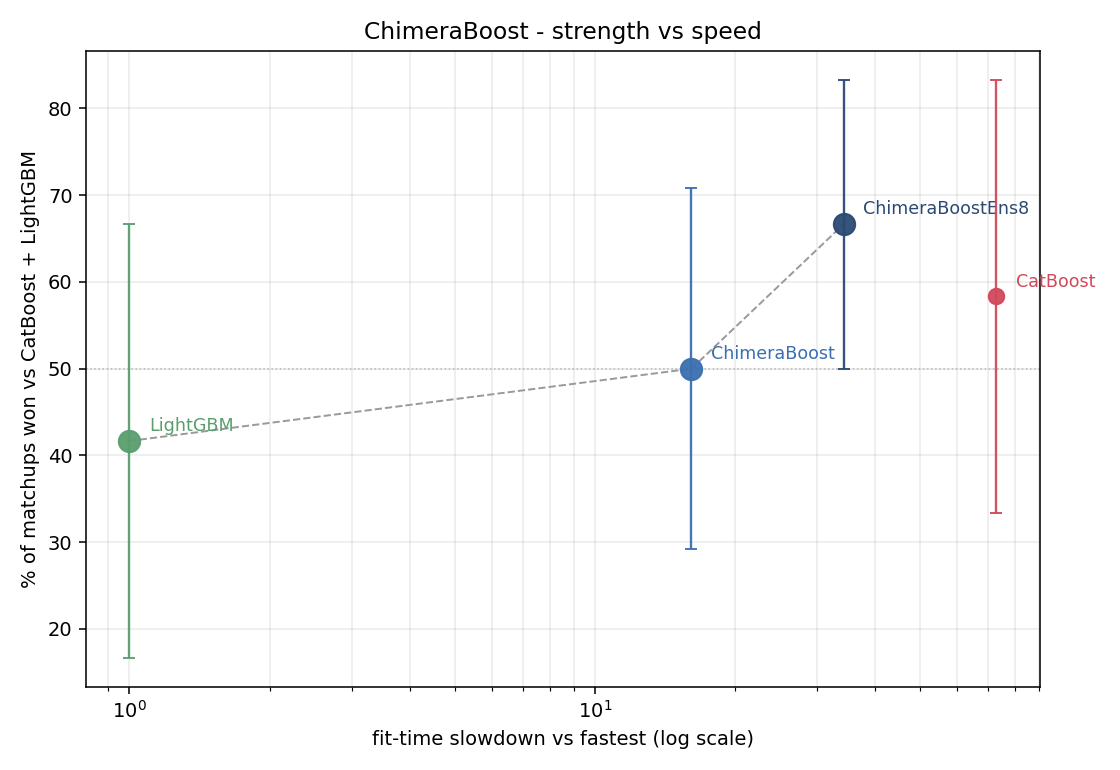
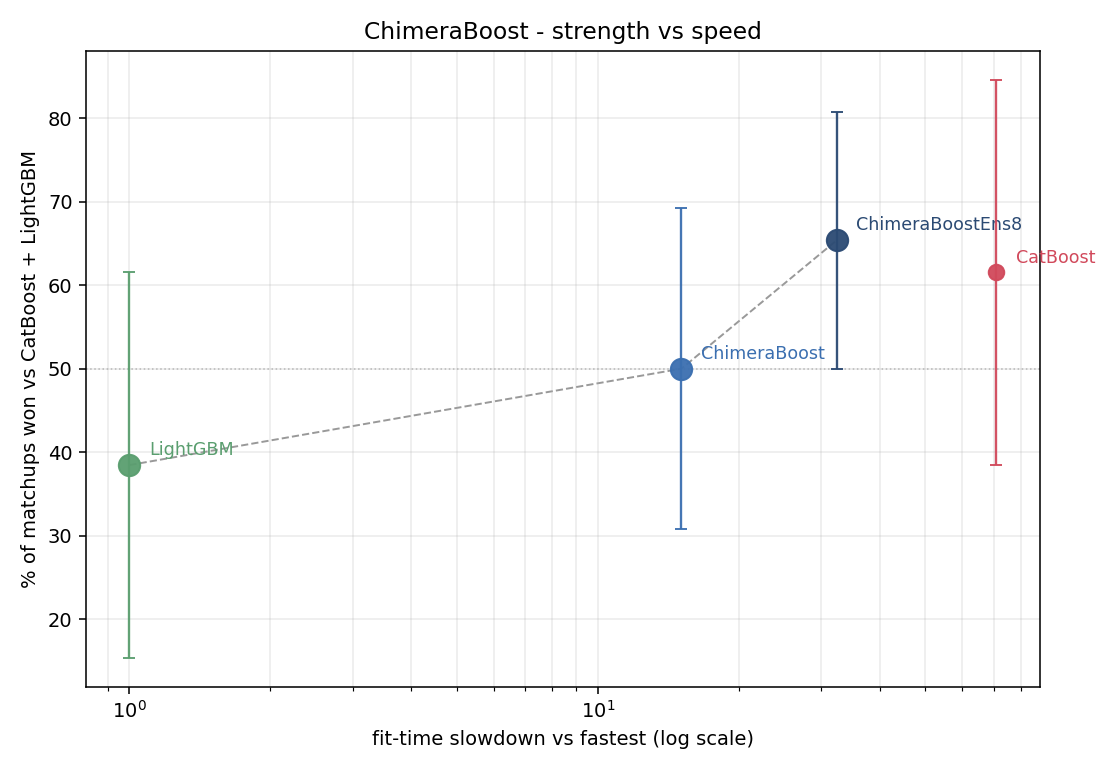
Public suite: add nba-shot-logs, re-run, refresh the chart
Reinstated the dataset that was cut for target leakage in the first pass. The
leak is two named columns, not a property of the data, which is what drop_cols
is for. Measured per-column purity -- how well one column alone pins the label
-- is 1.0000 for both FGM and PTS and at or barely above the 0.5479 majority
baseline for everything else, bar SHOT_DIST at 0.611, which is just basketball.
player_id and CLOSEST_DEFENDER_PLAYER_ID go too: numeric twins of the name
columns, and keeping both hands the model a leak-free numeric surrogate for the
very high-card categorical this dataset is here to exercise.

It earns its place: 128,069 rows, a balanced target (0.452), and three real
high-card cats (MATCHUP 1808, CLOSEST_DEFENDER 473, player_name 281) in a suite
that was thin on high-card BINARY.

The result confirms the surgery worked. nba-shot-logs scores Brier 0.4543 for us
against CatBoost 0.4537 and LightGBM 0.4670 -- narrow loss, clear win, and
nobody near a perfect score. A balanced binary sitting at 0.45 Brier is a hard
problem, not a leaking one.

Full re-run rather than a merge, since win rates are computed across datasets
within a single run. 103 minutes, 14 datasets, 3 seeds.

  ChimeraBoostEns8  65.4% [50-81]  32.4x  frontier
  CatBoost          61.5% [38-85]  70.9x  dominated
  ChimeraBoost      50.0% [31-69]  15.1x  frontier
  LightGBM          38.5% [15-62]   1.0x  frontier

Story is unchanged from the 13-dataset read: CatBoost dominated, the ensemble
[…]

diff --git a/benchmarks/run_benchmarks.py b/benchmarks/run_benchmarks.py
@@ -694,6 +694,16 @@ PUBLIC_DATASETS = {
         data_id=45566, task="binary", target="target"),        # wide numeric, 0.11 imbalance
     "hcdr": dict(
         data_id=45071, task="binary", target="class"),         # 47 categorical columns
+    "nba-shot-logs": dict(
+        data_id=42806, task="binary", target="SHOT_RESULT",
+        # FGM and PTS each determine SHOT_RESULT exactly (per-column purity
+        # 1.0000). The rest sit at the 0.548 majority baseline, bar SHOT_DIST at
+        # 0.611, which is just basketball. player_id and CLOSEST_DEFENDER_PLAYER_ID
+        # are numeric twins of the name columns -- keeping both would hand the
+        # model a leak-free numeric surrogate for the high-card cat this dataset
+        # is here to exercise. GAME_ID is a row-group id.
+        drop_cols=("FGM", "PTS", "GAME_ID", "player_id",
+                   "CLOSEST_DEFENDER_PLAYER_ID")),             # MATCHUP card 1808
     # multiclass
     "internet_firewall": dict(
         data_id=46978, task="multiclass", target="Action"),    # NAT ports card 29152

diff --git a/benchmarks/PUBLIC_PLAN.md b/benchmarks/PUBLIC_PLAN.md
@@ -106,7 +106,7 @@ Four candidates were cut on evidence that exists only in the data:
 
 | cut | id | why |
 |---|---|---|
-| nba-shot-logs | 42806 | **target leakage.** `FGM` determines `SHOT_RESULT` exactly (the crosstab is diagonal: 57,905 made ⇔ FGM=1, 70,164 missed ⇔ FGM=0), and `PTS` does the same. Any model scores ~1.0. |
+| ~~nba-shot-logs~~ | 42806 | **reinstated** — see below. `FGM` and `PTS` each determine `SHOT_RESULT` exactly, but they are two named columns, which is what `drop_cols` is for. |
 | autos | 45080 | **not real data.** 1,000,000 rows carrying the 205-row imports-85 schema — a generator expansion that the `BNG(` prefix filter does not catch. |
 | la_crimes | 42160 | no identifiable target; `Crime_Code` is mirrored by `Crime_Code_Description` and by `Crime_Code_1..4`, so whichever is the target, three columns leak it. Otherwise attractive (1.47M rows, 9 high-card cats, real timestamps) — kept as an alternate if a target can be established. |
 | Economic_Census_Delhi | 46096 | ambiguous target; ships both `District` and `DISTRICT`. |
@@ -138,6 +138,7 @@ running the builder.
 | pub:kickstarter_projects | 42076 | binary | 331,675 | 200,000 × 12 | 5 | 3,102 (`deadline`) | `state` | `deadline` | temporal, mixed-timezone dates |
 | pub:SantanderCustomerSatisfaction | 45566 | binary | 200,000 | 200,000 × 200 | 0 | — | `target` | — | wide all-numeric, 0.10 minority |
 | pub:hcdr | 45071 | binary | 244,280 | 200,000 × 69 | 47 | 58 (`ORGANIZATION_TYPE`) | `class` | — | the most categorical-heavy set found; 0.078 minority |
+| pub:nba-shot-logs | 42806 | binary | 128,069 | 128,069 × 15 | 6 | 1,808 (`MATCHUP`) | `SHOT_RESULT` | — | high-card cats on a balanced, genuinely hard binary target |
 | pub:internet_firewall | 46978 | multiclass | 65,532 | 65,532 × 11 | 4 | 29,152 (`NAT_Source_Port`) | `Action` | — | 4-class, high-card, rarest class 0.0008 |
 | pub:connect-4 | 40668 | multiclass | 67,557 | 67,557 × 42 | 42 | 3 | `class` | — | all-categorical multiclass |
 | pub:Otto-Group-Product-Classification-Challenge | 45548 | multiclass | 61,878 | 61,878 × 94 | 0 | — | `target` | — | 9 classes over count features |
@@ -147,9 +148,22 @@ running the builder.
 | pub:fps-in-video-games | 42737 | regression | 425,833 | 200,000 × 44 | 14 | 446 (`GpuName`) | `FPS` | — | entity cats + missingness |
 | pub:federal_election | 42080 | regression | 3,348,209 | 200,000 × 17 | 15 | `employer`/`occupation`/`city`/`zip_code` | `transaction_amt` | — | the entity-cat regime at full scale |
 
-Composition: 13 datasets; 5 binary / 4 multiclass / 4 regression; 8 with a
+Composition: 14 datasets; 6 binary / 4 multiclass / 4 regression; 9 with a
 categorical of ≥50 levels; 3 regression-with-cats; 3 carrying a time column.
-Registration yields 20 keys once the `@sus25`/`@sus50`/`@time` twins are added.
+Registration yields 22 keys once the `@sus25`/`@sus50`/`@time` twins are added.
+
+**On reinstating nba-shot-logs.** It was cut in the first pass for target
+leakage and then brought back, because the leak is two named columns rather than
+a property of the dataset. Measured per-column purity — how well knowing one
+column alone pins the label — is 1.0000 for both `FGM` and `PTS`, and at or
+barely above the 0.5479 majority baseline for everything else, the one exception
+being `SHOT_DIST` at 0.611, which is just basketball. With those two dropped the
+target is balanced at 0.452 and genuinely hard, and the set contributes three
+real high-cardinality categoricals (`MATCHUP` 1,808, `CLOSEST_DEFENDER` 473,
+`player_name` 281) to a suite that was thin on high-card *binary*. `player_id`
+and `CLOSEST_DEFENDER_PLAYER_ID` go too: they are numeric twins of the name
+columns, and leaving them in hands the model a leak-free numeric surrogate for
+the very categorical the dataset is here to exercise.
 
 **Loaded from data.openml.org, not through `fetch_openml`.** The `pub:` builder
 downloads the dataset's parquet directly and takes the target from the frozen
@@ -210,26 +224,32 @@ README headline at `images/public_pareto.png` in place of the TabArena figure.
 
 ## First read — 2026-07-26
 
-`--public --seeds 3` over the four charted arms: **99 minutes** wall on this box
+`--public --seeds 3` over the four charted arms: **103 minutes** wall on this box
 (5 parallel jobs, 2 threads each). Base suite only, no variant families.
 
 | model | win% vs CatBoost + LightGBM | 95% CI | slowdown | on frontier |
 |---|---|---|---|---|
-| ChimeraBoostEns8 | 66.7% | 50–83 | 34.2× | yes |
-| CatBoost | 58.3% | 33–83 | 72.8× | no — dominated |
-| ChimeraBoost (default) | 50.0% | 29–71 | 16.1× | yes |
-| LightGBM | 41.7% | 17–67 | 1.0× | yes |
+| ChimeraBoostEns8 | 65.4% | 50–81 | 32.4× | yes |
+| CatBoost | 61.5% | 38–85 | 70.9× | no — dominated |
+| ChimeraBoost (default) | 50.0% | 31–69 | 15.1× | yes |
+| LightGBM | 38.5% | 15–62 | 1.0× | yes |
 
-12 of 13 datasets scored; `kickstarter_projects` is near-solved (Brier ~1e-4 for
+13 of 14 datasets scored; `kickstarter_projects` is near-solved (Brier ~1e-4 for
 three of four arms) and excluded by the guard from PR #31.
 
+`nba-shot-logs` came in at Brier 0.4543 for us against CatBoost's 0.4537 and
+LightGBM's 0.4670 — a narrow loss and a clear win respectively, with nobody
+anywhere near a perfect score. That is the direct confirmation that dropping
+`FGM` and `PTS` removed the leak rather than hiding it: a balanced binary target
+sitting at 0.45 Brier is a genuinely hard problem.
+
 **Read it honestly.** CatBoost is dominated — the ensemble is stronger *and*
-2.1× faster than it — and the default rung matches CatBoost's strength at 4.5×
+2.2× faster than it — and the default rung matches CatBoost's strength at 4.7×
 its speed. But this is a markedly weaker picture than the internal Grinsztajn
 chart, on both axes, and that is the entire point of having a sealed suite:
 
 - The internal chart puts the default at 69.9% and 9.35× slowdown. Here it is
-  50.0% and 16.1×. The slowdown gap is mostly size — these datasets run to
+  50.0% and 15.1×. The slowdown gap is mostly size — these datasets run to
   200,000 rows, where LightGBM scales better than we do, so the ~5× figure the
   internal chart reports does not survive at this scale.
 - Two datasets are outright losses to LightGBM on both metrics: `connect-4`

diff --git a/benchmarks/VARIANTS.md b/benchmarks/VARIANTS.md
@@ -90,7 +90,7 @@ The HC percentages run slightly high because 14 datasets cannot be split into
 exact fifths and tenths. That is the cost of a fixed, auditable rule, and it is
 preferable to a per-suite fudge factor.
 
-### Public — 13 datasets, 3 at 25% (23.1%), 1 at 50% (7.7%)
+### Public — 14 datasets, 3 at 25% (21.4%), 2 at 50% (14.3%)
 
 | # | dataset | twin |
 |---|---|---|
@@ -98,6 +98,7 @@ preferable to a per-suite fudge factor.
 | 3 | `pub:SantanderCustomerSatisfaction` | `@sus50` |
 | 5 | `pub:federal_election` | `@sus25` |
 | 10 | `pub:internet_firewall` | `@sus25` |
+| 13 | `pub:rossmann_store_sales` | `@sus50` |
 
 Index order is the plain sort of the frozen keys, so the capitalised names sort
 ahead of the lowercase ones. Nothing chose these four — the stride did.
